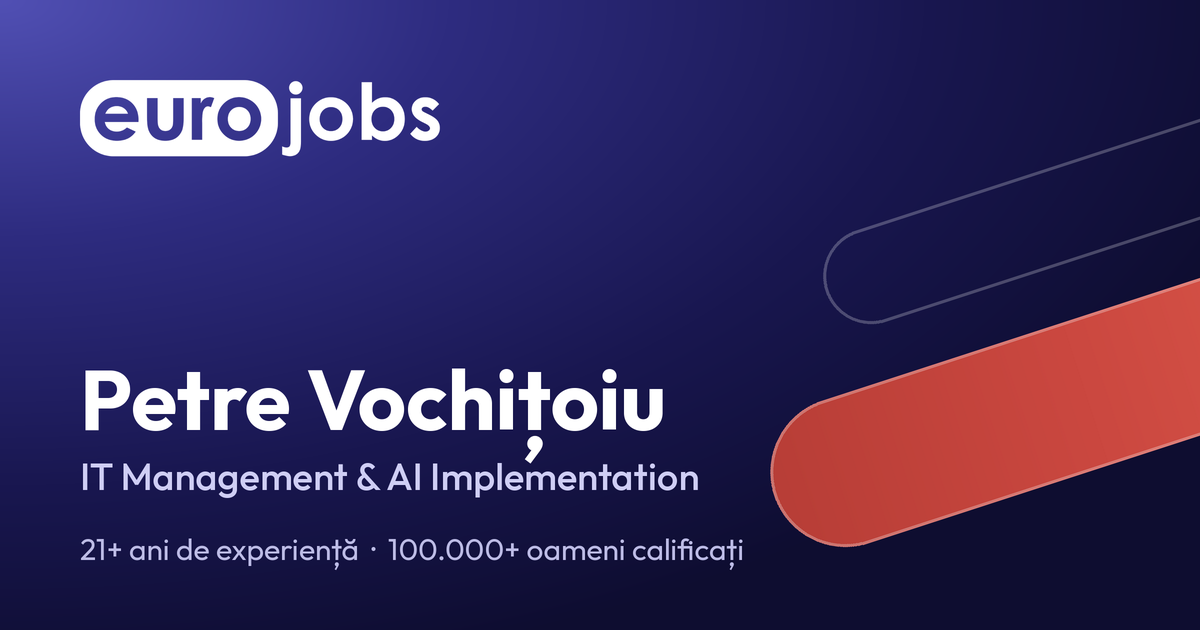
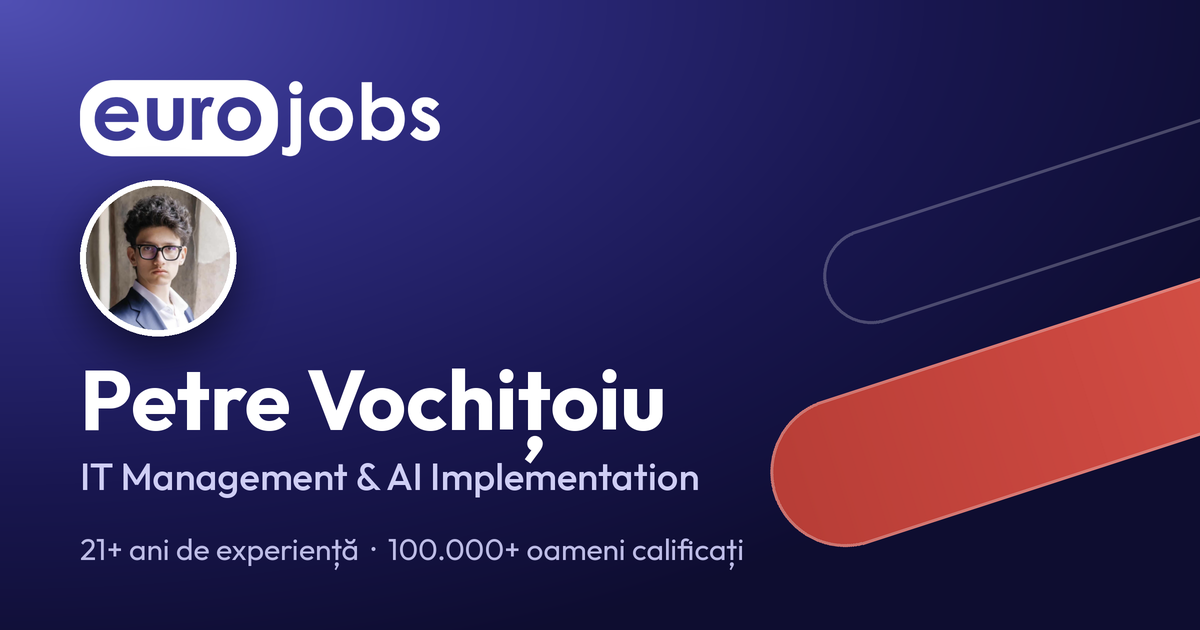
Adaugă poza pe cartea de vizită
Claude-Session: https://claude.ai/code/session_01DaUhcf1zv9M6omiJvqrh2W

Changed region(s): [[0.0617, 0.2714, 0.2158, 0.573]]

diff --git a/index.html b/index.html
@@ -48,13 +48,14 @@ a{color:inherit}
   box-shadow:inset 0 1px 0 rgba(255,255,255,.22),inset 0 0 0 1px rgba(255,255,255,.06),0 34px 60px -24px rgba(14,13,48,.6),0 12px 26px -14px rgba(14,13,48,.55)}
 .card::after{content:"";position:absolute;inset:0;z-index:-1;background:linear-gradient(118deg,rgba(255,255,255,.12) 0%,rgba(255,255,255,0) 38%);pointer-events:none}
 .logo{width:clamp(150px,48%,200px);height:auto;display:block}
-.decor{position:relative;flex:1;min-height:110px;margin:0 calc(-1*clamp(22px,6vw,32px))}
+.decor{position:relative;flex:1;min-height:146px;margin:0 calc(-1*clamp(22px,6vw,32px))}
 .decor i{position:absolute;display:block;border-radius:999px;transform:rotate(-18deg)}
 .decor .p1{left:30%;width:105%;top:30%;height:clamp(64px,19%,96px);
   background:linear-gradient(95deg,#B83E37 0%,#CB4840 40%,#E4604F 100%);
   box-shadow:inset 0 2px 0 rgba(255,255,255,.28),inset 0 -10px 22px rgba(80,10,10,.35),0 22px 34px -14px rgba(0,0,0,.55)}
 .decor .p2{left:46%;width:90%;top:8%;height:clamp(40px,12%,60px);border:1.5px solid rgba(255,255,255,.22)}
 .decor .p3{left:18%;top:63%;width:14px;height:14px;background:#fff;opacity:.9;box-shadow:0 0 0 6px rgba(255,255,255,.08)}
+.face{position:absolute;z-index:2;left:clamp(22px,6vw,32px);top:50%;transform:translateY(-50%);width:clamp(108px,36%,156px);height:auto;aspect-ratio:1;border-radius:50%;object-fit:cover;border:4px solid #fff;background:#2E2C80;box-shadow:0 18px 32px -12px rgba(0,0,0,.6)}
 .who h1{margin:0;font-size:clamp(30px,8.6vw,40px);line-height:1.05;font-weight:700;letter-spacing:-.01em;text-wrap:balance}
 .role{margin:8px 0 0;font-size:16px;font-weight:500;color:#CFCEF5;line-height:1.3}
 .stats{display:grid;grid-template-columns:auto auto;justify-content:start;gap:0 22px;margin-top:18px;padding-top:16px;border-top:1px solid rgba(255,255,255,.16)}
@@ -121,7 +122,7 @@ footer{grid-column:1/-1;text-align:center;color:var(--muted);font-size:13px;padd
   <div class="lead">
     <article class="card" aria-label="Carte de vizită Petre Vochițoiu, Euro Jobs">
[1 lines of base64/hex data omitted]
-      <div class="decor" aria-hidden="true"><i class="p2"></i><i class="p1"></i><i class="p3"></i></div>
+      <div class="decor"><i class="p2" aria-hidden="true"></i><i class="p1" aria-hidden="true"></i><img class="face" src="avatar.jpg" alt="Petre Vochițoiu" width="400" height="400"></div>
       <div class="who">
         <h1>Petre Vochițoiu</h1>
         <p class="role">IT Management &amp; AI&nbsp;Implementation</p>
